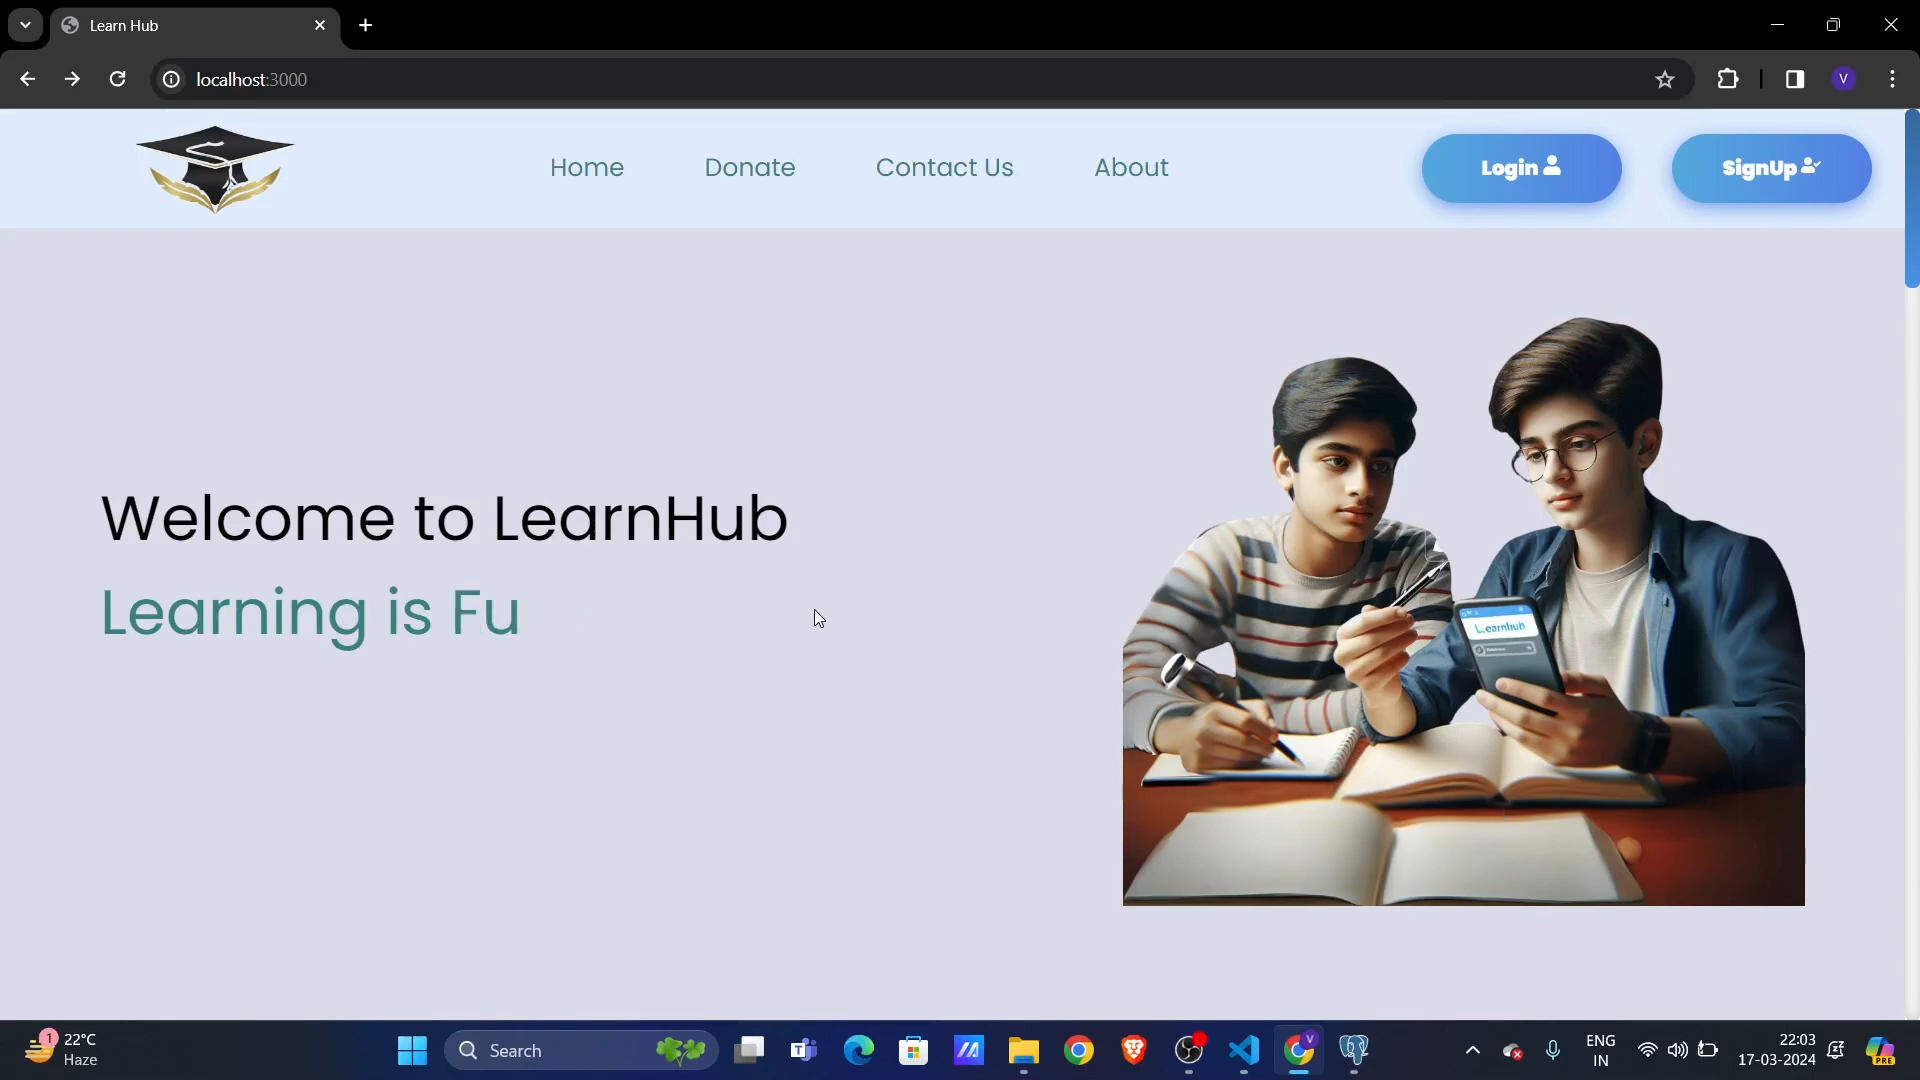
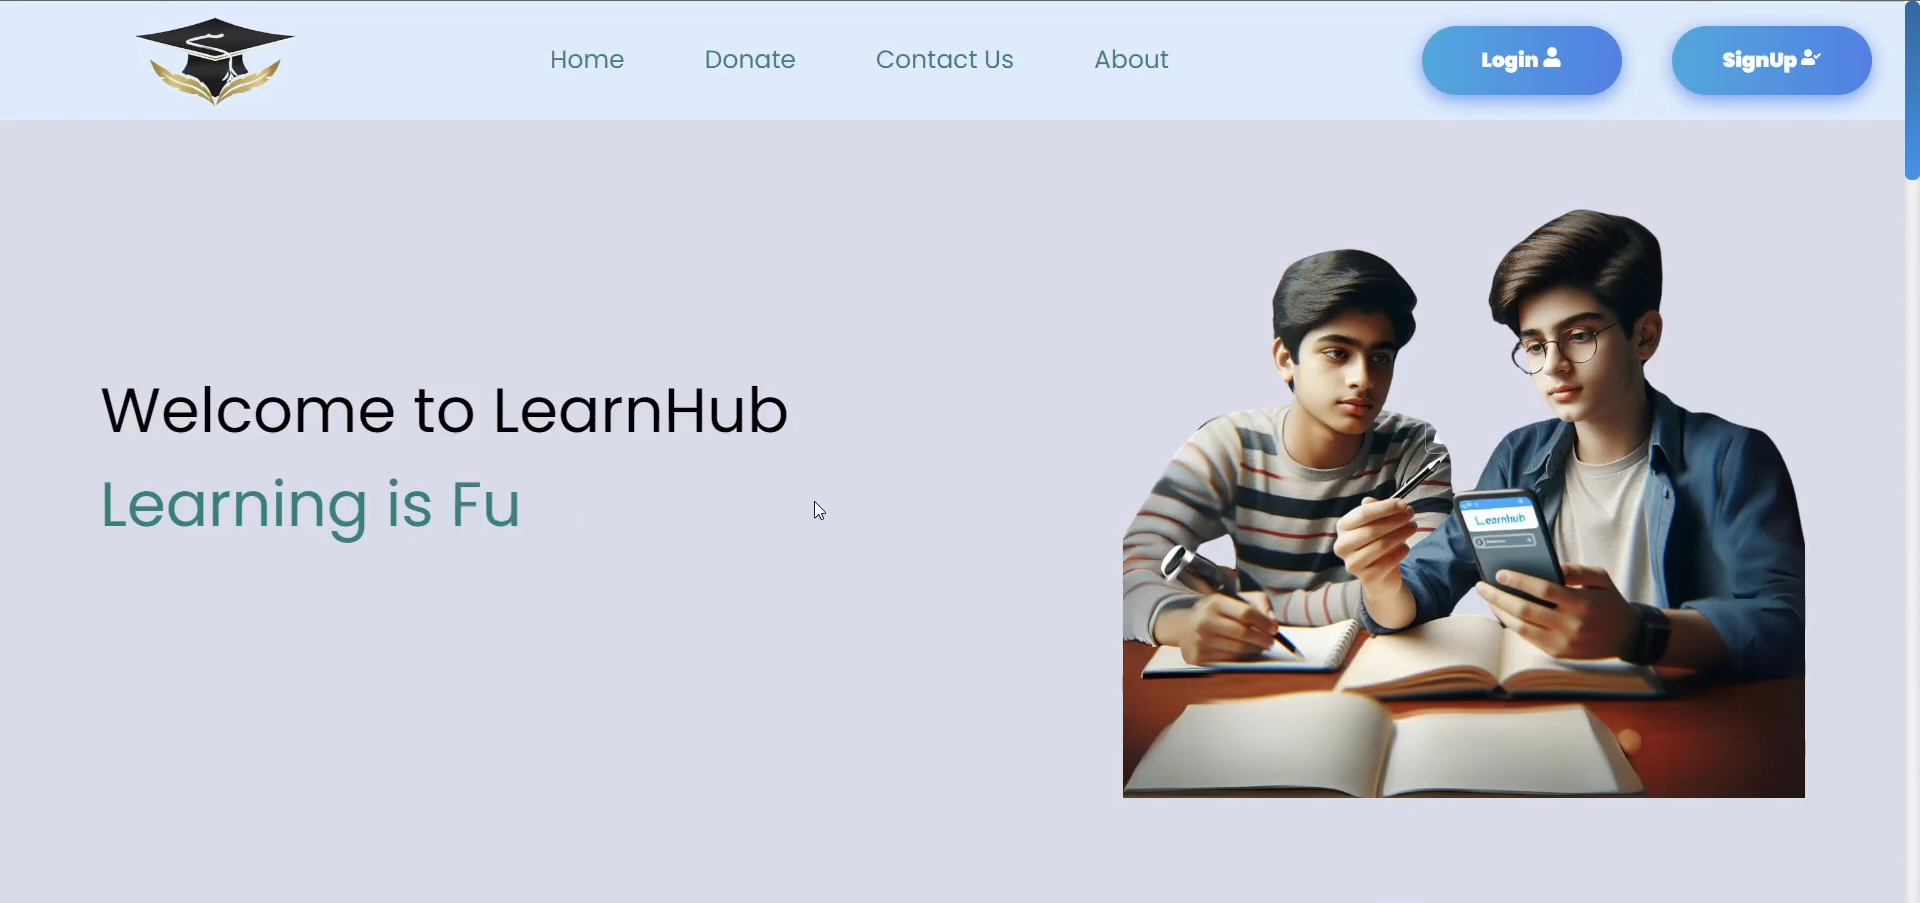
Updated Skills Section

diff --git a/client/src/components/sections/Skills.jsx b/client/src/components/sections/Skills.jsx
@@ -1,35 +1,82 @@
 import React from 'react';
 import '../../index.css';
 import { skil } from "../../data/constants";
-// import StarCanvas from "../canvas/Stars";
 import { motion } from "framer-motion";
 
+const container = {
+  hidden: { opacity: 0 },
+  show: {
+    opacity: 1,
+    transition: {
+      staggerChildren: 0.1,
+      delayChildren: 0.3
+    }
+  }
+};
+
+const item = {
+  hidden: { y: 20, opacity: 0 },
+  show: {
+    y: 0,
+    opacity: 1,
+    transition: {
+      duration: 0.5,
+      ease: "easeOut"
+    }
+  }
+};
 
 const Skills = () => {
     return (
         <div className="Skills" id="Skills">
-            {/* <div className="hero-bg">
-                <StarCanvas />
-            </div> */}
-            <h1 className='skills-h1'>Skills</h1>
-            <p className='desc'>Here are some of my skills on which I have been working on for the
-                past 2 years.</p>
-            <motion.div
-                className="box"
-                initial={{ opacity: 0.5, scale: 0.5 }}
-                transition={{ duration: 1 }}
-                whileInView={{ opacity: 1, scale: 1 }} >
-            <div className="skills-grid">
-                {skil.map(skill => (
-                    <div key={skill.name} className="skill-card">
-                        <img src={skill.icon} alt={skill.name} className="skill-icon" />
-                        <p className='skills-p'>{skill.name}</p>
-                    </div>
-                ))}
+            <motion.h1 
+                className='skills-h1'
+                initial={{ opacity: 0, y: -20 }}
+                whileInView={{ opacity: 1, y: 0 }}
+                transition={{ duration: 0.6 }}
+            >
+                Skills
+            </motion.h1>
+            
+            <motion.p 
+                className='desc'
+                initial={{ opacity: 0, y: -20 }}
+                whileInView={{ opacity: 1, y: 0 }}
+                transition={{ duration: 0.6, delay: 0.2 }}
+            >
+                Here are some of my skills on which I have been working on for the
+                past 2 years.
+            </motion.p>
 
-            </div>
+            <motion.div 
+                className="skills-grid"
+                variants={container}
+                initial="hidden"
+                whileInView="show"
+                viewport={{ once: true }}
+            >
+                {skil.map((skill, index) => (
+                    <motion.div
+                        key={skill.name}
+                        className="skill-card"
+                        variants={item}
+                        whileHover={{ 
+                            scale: 1.03,
+                            transition: { duration: 0.2 }
+                        }}
+                    >
+                        <motion.img 
+                            src={skill.icon} 
+                            alt={skill.name} 
+                            className="skill-icon"
+                        />
+                        <motion.p className='skills-p'>
+                            {skill.name}
+                        </motion.p>
+                    </motion.div>
+                ))}
             </motion.div>
-        </div >
+        </div>
     );
 };
 

diff --git a/client/src/index.css b/client/src/index.css
@@ -418,12 +418,9 @@ body {
 /* Skills */
 .Skills {
   text-align: center;
-  /* background-color: #3b0066; */
   color: white;
-  padding: 20px;
-  clip-path: polygon(0 0, 100% 0, 100% 100%, 70% 95%, 0 100%);
+  padding: 40px 20px;
   position: relative;
-  /* Ensure positioning context for z-index */
   z-index: 1;
 }
 
@@ -459,47 +456,71 @@ body {
 
 .skills-grid {
   display: grid;
-  grid-template-columns: repeat(auto-fill, minmax(150px, 1fr));
+  grid-template-columns: repeat(auto-fill, minmax(140px, 1fr));
   gap: 20px;
   justify-items: center;
-  border: 1px solid black;
   padding: 20px;
   position: relative;
   z-index: 1;
-  background: rgba(0, 0, 0, 0.5);
-  border-radius: 10px;
-  @media (max-width: 768px) {
-    margin-bottom: 25px;
-    
+  background: rgba(0, 0, 0, 0.2);
+  border-radius: 20px;
+  backdrop-filter: blur(10px);
+  border: 1px solid rgba(255, 255, 255, 0.1);
+  max-width: 1200px;
+  margin: 0 auto;
+}
+
+@media (max-width: 768px) {
+  .skills-grid {
+    grid-template-columns: repeat(2, 1fr);
+    padding: 15px;
+    gap: 15px;
   }
 }
 
-
+@media (max-width: 480px) {
+  .skills-grid {
+    grid-template-columns: repeat(2, minmax(120px, 1fr));
+    padding: 10px;
+    gap: 10px;
+  }
+}
 
 .skill-card {
-  background: #1e0039;
-  padding: 10px;
-  border-radius: 10px;
+  background: rgba(30, 0, 57, 0.8);
+  padding: 15px;
+  border-radius: 12px;
   display: flex;
   flex-direction: column;
   align-items: center;
-  box-shadow: 0 4px 6px rgba(0, 0, 0, 0.1);
-  width: 150px;
+  box-shadow: 0 4px 15px rgba(31, 38, 135, 0.15);
+  backdrop-filter: blur(4px);
+  border: 1px solid rgba(255, 255, 255, 0.1);
+  width: 100%;
+  max-width: 140px;
+  transition: all 0.2s ease;
 }
 
 .skill-card:hover {
-  box-shadow: 0 4px 6px rgba(255, 255, 255, 0.5);
+  box-shadow: 0 4px 15px rgba(134, 76, 230, 0.2);
+  border-color: rgba(134, 76, 230, 0.4);
+  transform: translateY(-3px);
 }
 
 .skill-icon {
-  width: 50px;
-  height: 50px;
-  margin-bottom: 10px;
+  width: 60px;
+  height: 60px;
+  margin-bottom: 15px;
+  filter: drop-shadow(0 0 8px rgba(134, 76, 230, 0.3));
 }
 
 .skills-p {
   margin: 0;
-  font-size: 1em;
+  font-size: 1.1em;
+  font-weight: 500;
+  background: linear-gradient(90deg, #854CE6, #ffffff);
+  -webkit-background-clip: text;
+  -webkit-text-fill-color: transparent;
 }
 
 /* Education CSS */

diff --git a/client/src/data/constants.js b/client/src/data/constants.js
@@ -22,13 +22,15 @@ export const skil = [
   { name: 'CSS', icon: 'https://cdn-icons-png.flaticon.com/512/732/732190.png'},
   { name: 'JavaScript', icon: 'https://img.icons8.com/color/48/javascript--v1.png'},
   { name: 'React.js', icon: 'https://cdn-icons-png.flaticon.com/512/1126/1126012.png'},
-  { name: 'Node.js', 
-    icon: 'https://img.icons8.com/color/48/nodejs.png'},
-    { name: 'Express', icon: 'https://img.icons8.com/?size=100&id=kg46nzoJrmTR&format=png&color=000000'},
-    { name: 'MySQL', icon: 'https://img.icons8.com/?size=100&id=9nLaR5KFGjN0&format=png&color=000000'},
-    { name: 'PostgreSQL', icon: 'https://cdn-icons-png.flaticon.com/512/5968/5968342.png'},
-    { name: 'C++', icon: 'https://img.icons8.com/fluency/48/null/c-plus-plus-logo.png' },
-    { name: 'C', icon: 'https://img.icons8.com/color/48/null/c-programming.png' },
-    { name: 'Python', icon: 'https://img.icons8.com/color/48/null/python--v1.png' },
+  { name: 'Node.js', icon: 'https://img.icons8.com/color/48/nodejs.png'},
+  { name: 'Express', icon: 'https://img.icons8.com/?size=100&id=kg46nzoJrmTR&format=png&color=000000'},
+  { name: 'MySQL', icon: 'https://img.icons8.com/?size=100&id=9nLaR5KFGjN0&format=png&color=000000'},
+  { name: 'PostgreSQL', icon: 'https://cdn-icons-png.flaticon.com/512/5968/5968342.png'},
+  { name: 'C++', icon: 'https://img.icons8.com/fluency/48/null/c-plus-plus-logo.png' },
+  { name: 'C', icon: 'https://img.icons8.com/color/48/null/c-programming.png' },
+  { name: 'Python', icon: 'https://img.icons8.com/color/48/null/python--v1.png' },
+  { name: 'Machine Learning', icon: 'https://img.icons8.com/?size=48&id=HlbeI5zSsj4P&format=png&color=000000' },
+  { name: 'Numpy', icon: 'https://img.icons8.com/color/48/numpy.png' },
+  { name: 'Pandas', icon: 'https://img.icons8.com/color/48/pandas.png' },
   { name: 'Git', icon: 'https://img.icons8.com/color/48/git.png' }
 ];
